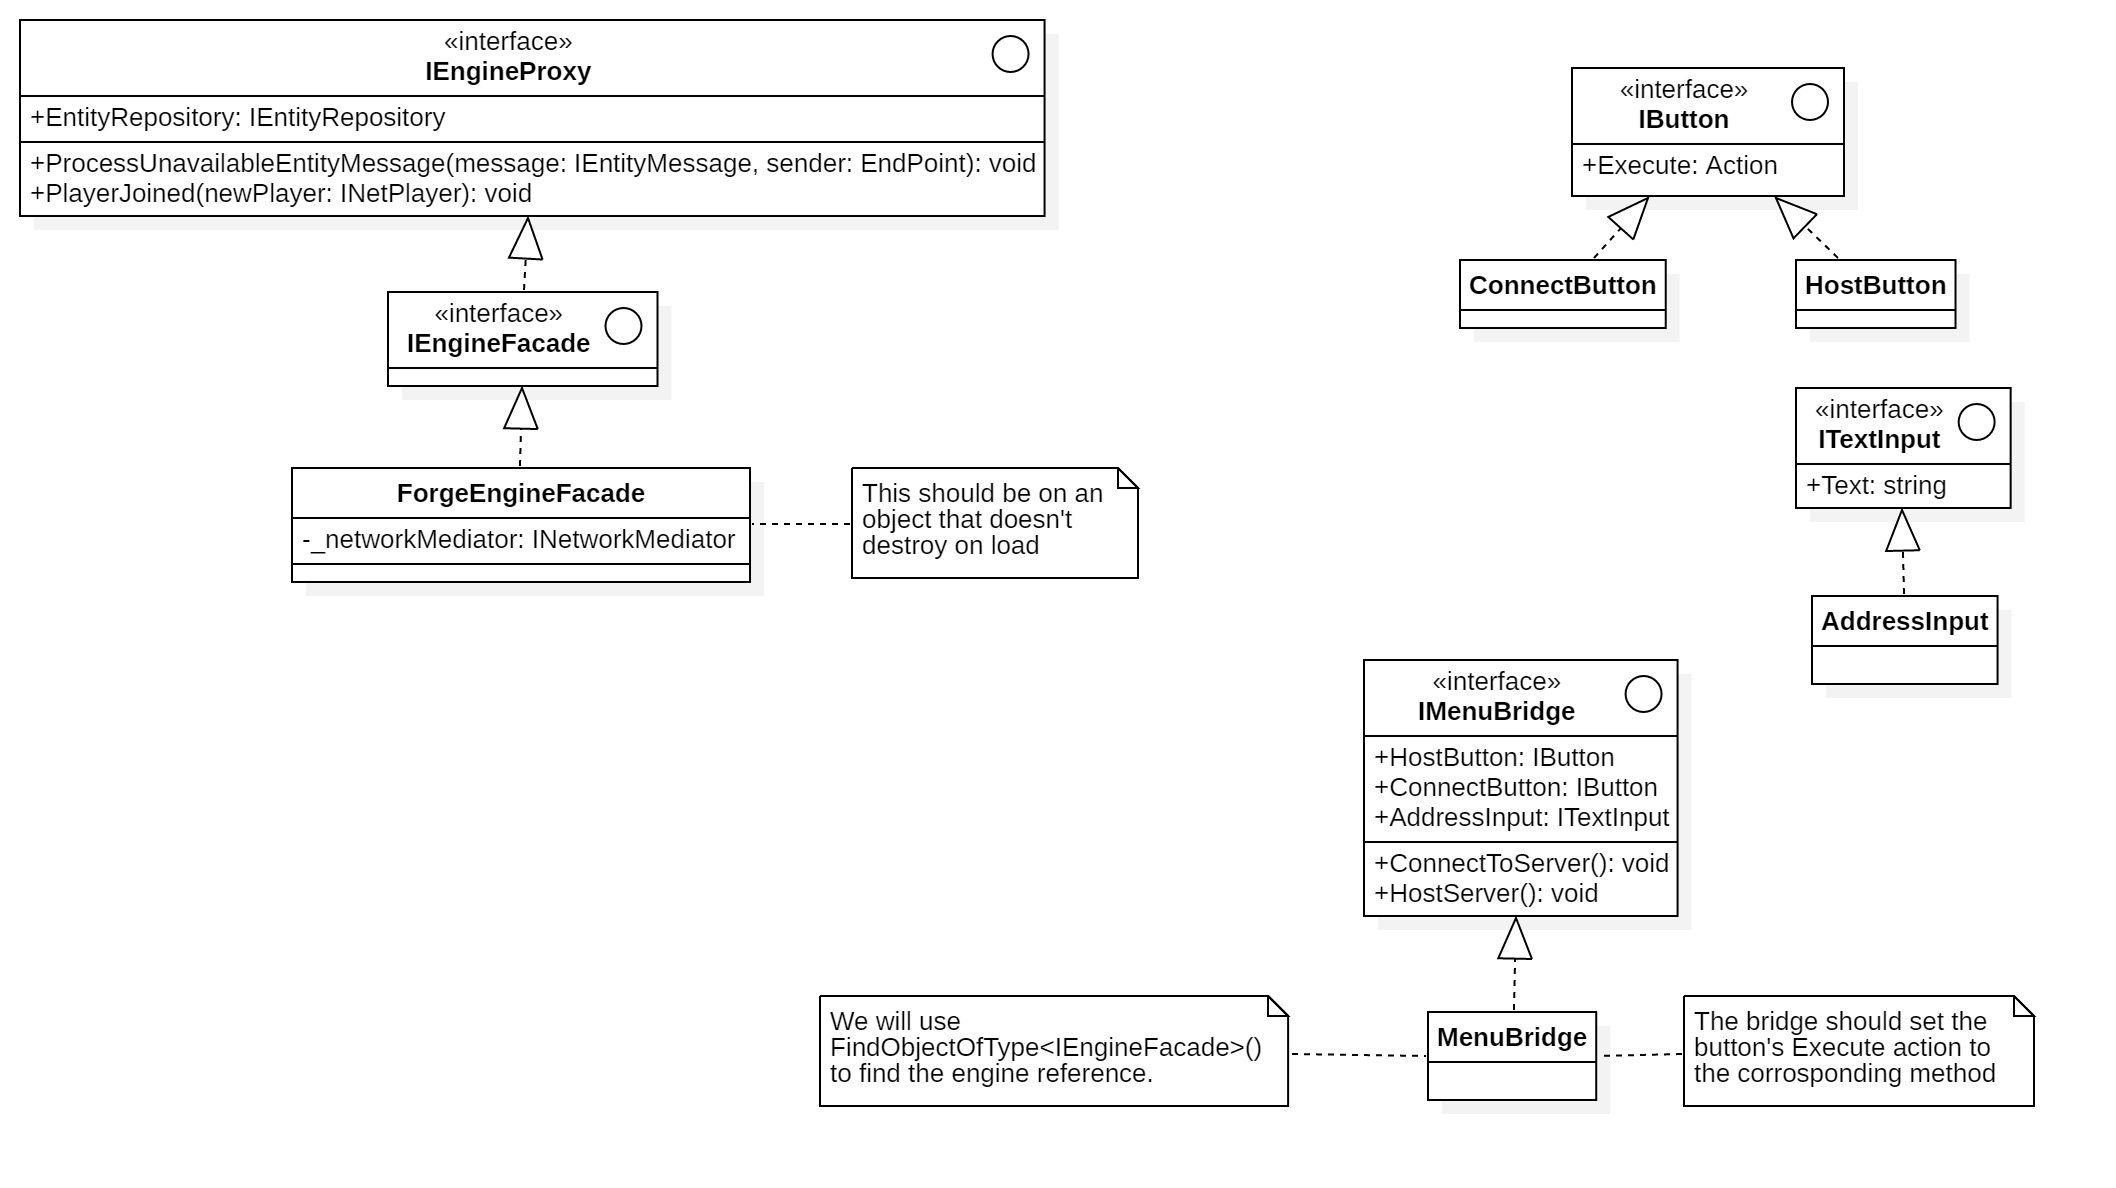
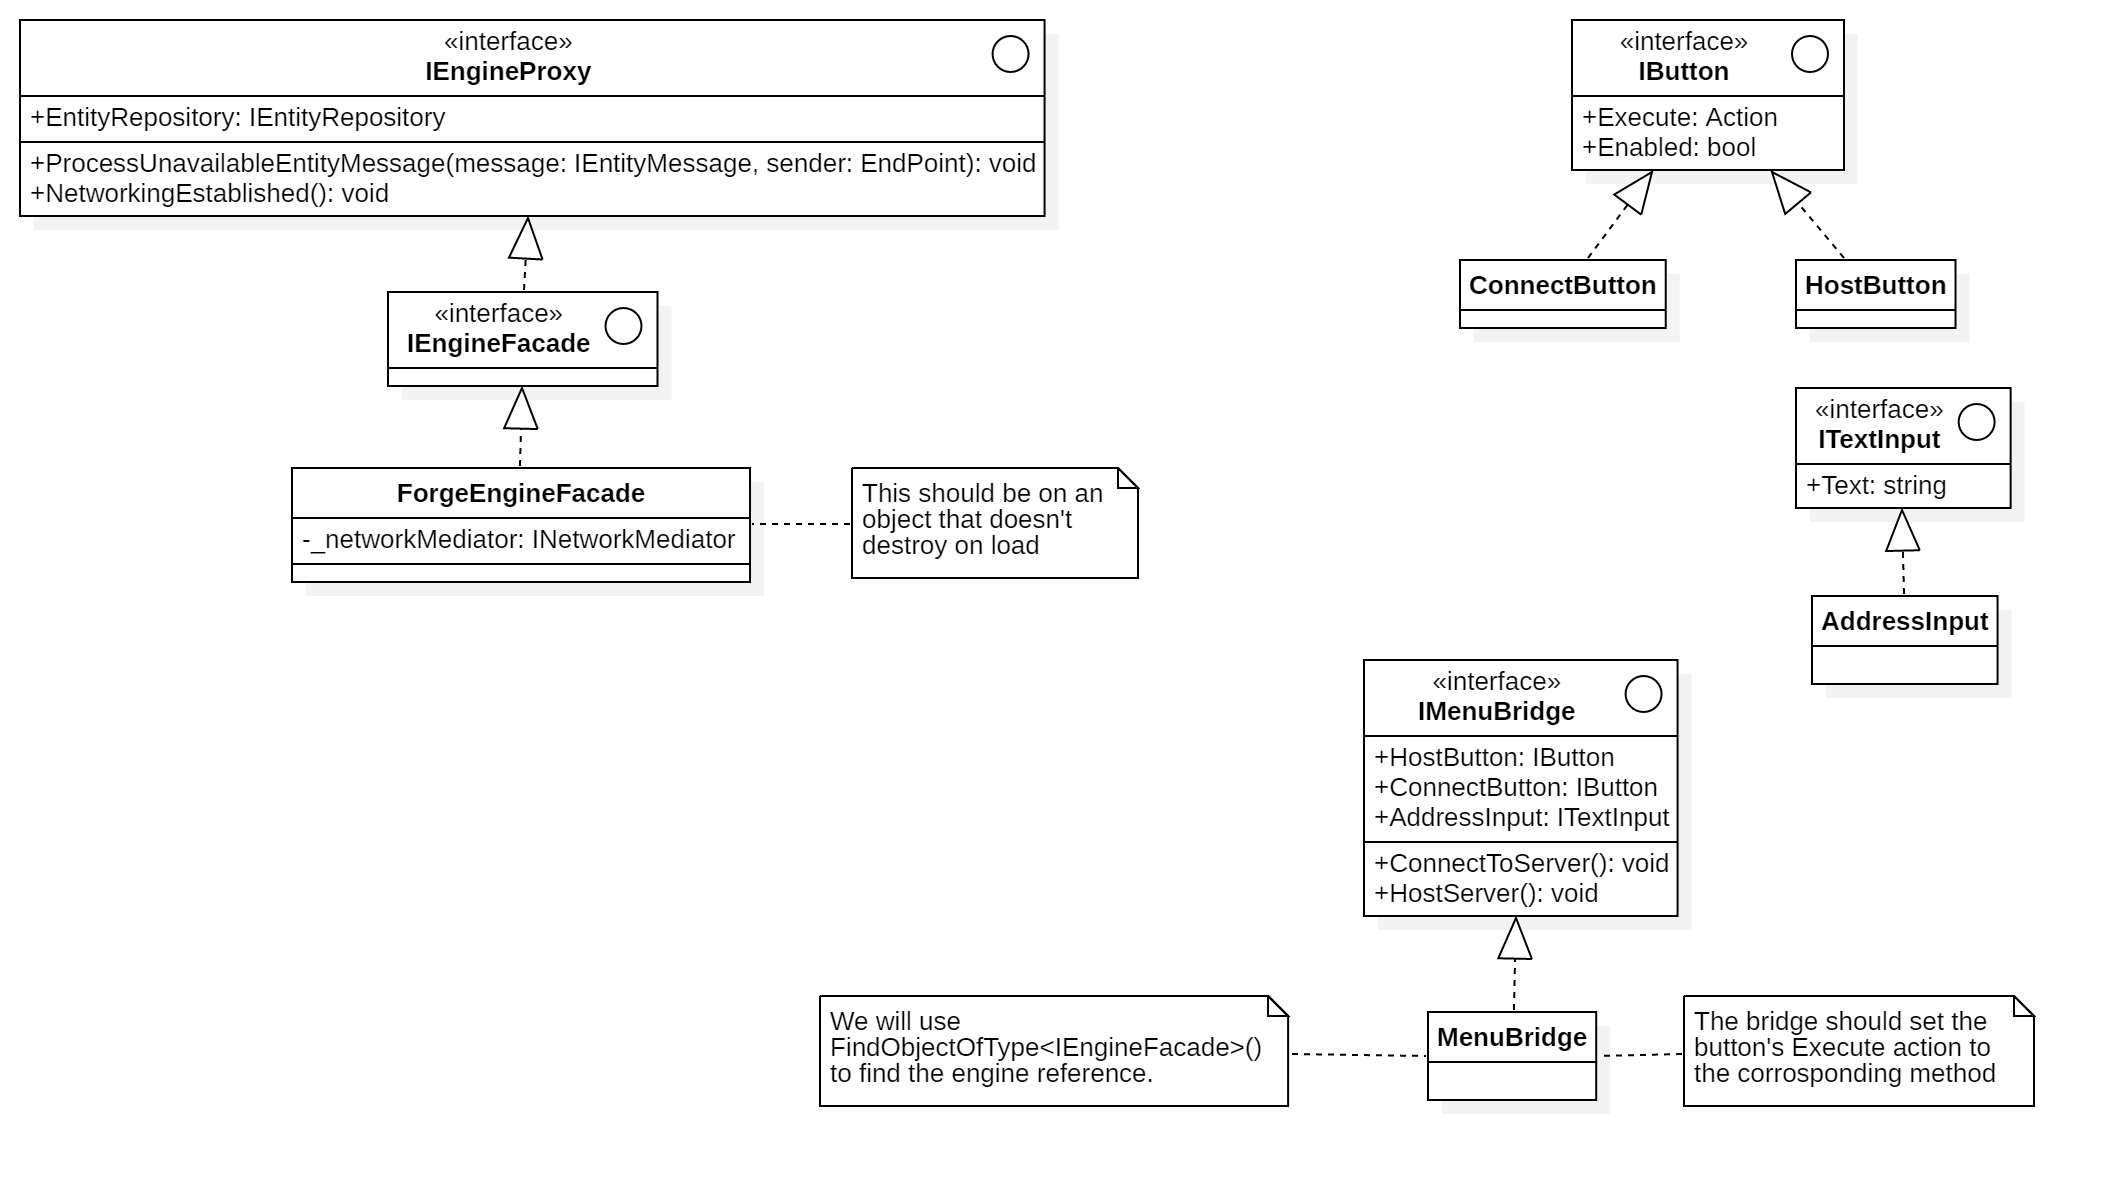
Chaning the engine to have the method when to know it pass challenge

Changed region(s): [[0.7486, 0.0311, 0.8733, 0.218], [0.0312, 0.1557, 0.2495, 0.1869], [0.8422, 0.1557, 0.8733, 0.218]]

diff --git a/ForgeAlloy/Forge/Networking/Messaging/Interpreters/ForgeNetworkIdentityInterpreter.cs b/ForgeAlloy/Forge/Networking/Messaging/Interpreters/ForgeNetworkIdentityInterpreter.cs
@@ -9,13 +9,14 @@ namespace Forge.Networking.Messaging.Interpreters
 		public bool ValidOnClient => true;
 		public bool ValidOnServer => false;
 
-		public void Interpret(INetworkMediator netHost, EndPoint sender, IMessage message)
+		public void Interpret(INetworkMediator netMediator, EndPoint sender, IMessage message)
 		{
 			var identityMessage = (ForgeNetworkIdentityMessage)message;
-			var clientContainer = (ISocketClientFacade)netHost.SocketFacade;
+			var clientContainer = (ISocketClientFacade)netMediator.SocketFacade;
 			clientContainer.NetPlayerId = identityMessage.Identity;
 			var engineReadyMessage = new ForgeReadyForEngineMessage();
-			netHost.MessageBus.SendReliableMessage(engineReadyMessage, netHost.SocketFacade.ManagedSocket, sender);
+			netMediator.EngineProxy.NetworkingEstablished();
+			netMediator.MessageBus.SendReliableMessage(engineReadyMessage, netMediator.SocketFacade.ManagedSocket, sender);
 		}
 	}
 }

diff --git a/ForgeAlloy/Forge/Engine/IEngineProxy.cs b/ForgeAlloy/Forge/Engine/IEngineProxy.cs
@@ -1,6 +1,5 @@
 using System.Net;
 using Forge.Networking.Messaging.Messages;
-using Forge.Networking.Players;
 
 namespace Forge.Engine
 {
@@ -8,6 +7,6 @@ namespace Forge.Engine
 	{
 		IEntityRepository EntityRepository { get; set; }
 		void ProcessUnavailableEntityMessage(IEntityMessage message, EndPoint sender);
-		void PlayerJoined(INetPlayer newPlayer);
+		void NetworkingEstablished();
 	}
 }

diff --git a/ForgeAlloy/Forge/Networking/Messaging/Interpreters/ForgeReadyForEngineInterpreter.cs b/ForgeAlloy/Forge/Networking/Messaging/Interpreters/ForgeReadyForEngineInterpreter.cs
@@ -14,10 +14,7 @@ namespace Forge.Networking.Messaging.Interpreters
 			{
 				INetPlayer player = netHost.PlayerRepository.GetPlayer(sender);
 				if (!player.IsInEngine)
-				{
 					player.IsInEngine = true;
-					netHost.EngineProxy.PlayerJoined(player);
-				}
 			}
 			catch (PlayerNotFoundException) { }
 		}

diff --git a/ForgeAlloy/Forge/Networking/ForgeNetworkMediator.cs b/ForgeAlloy/Forge/Networking/ForgeNetworkMediator.cs
@@ -33,6 +33,7 @@ namespace Forge.Networking
 			SocketFacade = server;
 			server.StartServer(port, maxPlayers, this);
 			_timeoutBridge.StartWatching(this);
+			EngineProxy.NetworkingEstablished();
 		}
 
 		public void StartClient(string hostAddress, ushort port)
